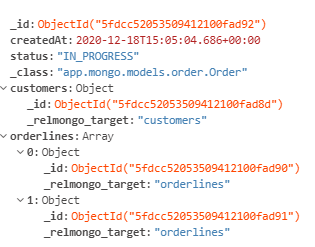
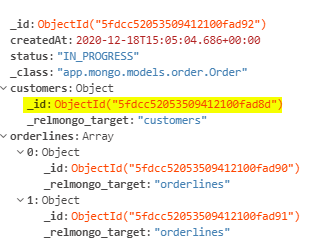
images

Changed region(s): [[0.0571, 0.3684, 0.9143, 0.4818]]

diff --git a/README.md b/README.md
@@ -44,16 +44,16 @@ This buisness case is build around the idea of an online game shop. A shop has p
 <hr/>
 
 MongoDB is a dynamic, object oriented, and highly scalable NoSQL database.
-We chose to use MongoDB as our datastore, mainly for its automatic scalability, which allows us to pass our application’s models directly into the database, which made it relatively easy for us to change how our data structure on the fly.
-
-It is also easier for us to create relations using the NoSQL language compared to traditional SQL.
+We chose to use MongoDB as our datastore, mainly for its automatic scalability, which allows us to pass our application’s models directly into the database, which made it relatively easy for us to change how our data structure on the fly.  
+  
+It is also easier for us to create relations using the NoSQL language compared to traditional SQL.  
 We don’t have to define foreign keys or create conjunction tables, we simple have to add the object which we wish to refer to into our models and mongo will handle the rest for us, which for example, made adding relations between a customer and an order incredibly straight forward.
  
 As an example, this is how our order and customer table looks in mongodb:    
 MongoDB - Order Table      | MongoDB - Customer Table    
 :-------------------------:|:-------------------------: 
 ![mongo](/Misc/mongo-order-table.png)  |  ![mongo](/Misc/mongo-customer-table.png)  
-
+As you can see on the Order-Table diagram, a customer is referenced directly by the table's ObjectId 
 
 ### Mail Service - Andreas
 The service is used to send out automatic mails through gmails smtp service.
